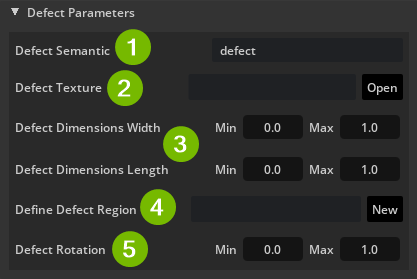
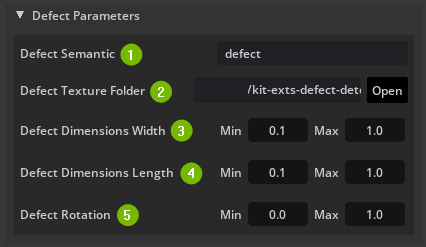
Updated Readme and changed to using Tight Bounding Box

diff --git a/exts/omni.example.defects/omni/example/defects/rep_widgets.py b/exts/omni.example.defects/omni/example/defects/rep_widgets.py
@@ -34,10 +34,6 @@ class DefectParameters:
                                            default_dir=str(SCRATCHES_DIR.as_posix()), 
                                            tooltip="A folder location containing a single or set of textures (.png)",
                                            file_types=[("*.png", "PNG"), ("*", "All Files")])
-        # TODO: Add this back in when new update to Replicator has been made
-        # with ui.HStack(tooltip="Defining the amount of defects to show on the prim"):
-        #     ui.Label("Defect Count")
-        #     ui.IntDrag(model=self.count)
             
         self.dim_w = MinMaxWidget("Defect Dimensions Width",
                                   min_value=0.1,

diff --git a/exts/omni.example.defects/omni/example/defects/replicator_defect.py b/exts/omni.example.defects/omni/example/defects/replicator_defect.py
@@ -114,7 +114,7 @@ def create_defect_layer(defect_params: DefectParameters, object_params: ObjectPa
 
         # Initialize and attach writer
         writer = rep.WriterRegistry.get("BasicWriter")
-        writer.initialize(output_dir=output_dir, rgb=True, semantic_segmentation=use_seg, bounding_box_2d_loose=use_bb)
+        writer.initialize(output_dir=output_dir, rgb=True, semantic_segmentation=use_seg, bounding_box_2d_tight=use_bb)
         # Attach render_product to the writer
         writer.attach([render_product])
 

diff --git a/exts/omni.example.defects/docs/README.md b/exts/omni.example.defects/docs/README.md
@@ -28,9 +28,10 @@ Randomizations are based on Replicator's [Distributions](https://docs.omniverse.
 1. Defect Semantic
     - The semantic label that will be used to represent the defect in the output file produced by Replicator.
     - Default Value: `defect`
-2. Defect Texture
+2. Defect Texture Folder
     - A folder location that holds all the texture(s) to choose from. Textures should be in PNG format.
-    - Default Value: `None`
+    - Default Value: data folder within the Defect Extension
+
     - Defect textures are composed of a Diffuse, Normal, and Roughness texture to represent the defect. Example shown below:
 
     Diffuse Texture |  Normal Texture | Roughness Texture
@@ -38,24 +39,26 @@ Randomizations are based on Replicator's [Distributions](https://docs.omniverse.
     ![](../omni/example/defects/data/scratches/scratch_0_D.png)  |  ![](../omni/example/defects/data/scratches/scratch_0_N.png) | ![](../omni/example/defects/data/scratches/scratch_0_R.png)
 
 
-3. Defect Dimensions (Width and Length)
-    - Replicator will choose random values between the Min and Max defined (cms) for the Width and Length.
-    - Default Value Min: `0`
+3. Defect Dimensions Width
+    - Replicator will choose random values between the Min and Max defined (cms)
+    - Default Value Min: `0.1`
     - Default Value Max: `1`
-4. Define Defect Region
-    - This will create a Plane Prim, this is used as a reference to define a region in which the defect can be in.
-    - Default Value: `None`
+
+4. Defect Dimensions Length
+    - Replicator will choose random values between the Min and Max defined (cms) 
+    - Default Value Min: `0.1`
+    - Default Value Max: `1`
+
 5. Defect Rotation
     - Replicator will choose random values between the Min and Max defined (cms) and will set that rotation.
-    - Default Value Min: `0`
+    - Default Value Min: `0.1`
     - Default Value Max: `1`
 
 A recommended set of values using the CarDefectPanel scene is the following:
  - Defect Semantics: Scratch
- - Defect Texture: [Path to Scratchs in nucleus]
- - Defect Dimensions Width: Min 0.01 Max 0.02
- - Defect Dimensions Length: Min 0.015 Max 0.02
- - Define Defect Region: *None*
+ - Defect Texture: [Path to Scratchs located in Extension]
+ - Defect Dimensions Width: Min 0.1 Max 0.2
+ - Defect Dimensions Length: Min 0.15 Max 0.2
  - Defect Rotation: Min 0 Max 360
 
 ### Replicator Parameters
@@ -64,12 +67,15 @@ A recommended set of values using the CarDefectPanel scene is the following:
 
 1. Output Directory
     - Defines the location in which Replicator will use to output data. By default it will be `DRIVE/Users/USER/omni.replicator_out`
-2. [Render Subframe](https://docs.omniverse.nvidia.com/prod_extensions/prod_extensions/ext_replicator/subframes_examples.html) Count
+2. Annotations
+    - There are two types of annotations you can choose from: Segmentation and/or Bounding Box. You can select both of these. For other annotation options you will need to adjust the code inside the extension.
+3. [Render Subframe](https://docs.omniverse.nvidia.com/prod_extensions/prod_extensions/ext_replicator/subframes_examples.html) Count
     - If rendering in RTX Realtime mode, specifies the number of subframes to render in order to reduce artifacts caused by large changes in the scene.
-3. Create Replicator Layer
+4. Create Replicator Layer
     - Generates the [OmniGraph](https://docs.omniverse.nvidia.com/prod_extensions/prod_extensions/ext_omnigraph.html) or Omni.Replicator graph architecture, if changes are made the user can click this button to reflect changes. This does not run the actual execution or logic.
-4. Preview / Run for X frames
+5. Preview 
     - **Preview** performs a single iteration of randomizations and prevents data from being written to disk.
+6. Run for X frames
     - **Run for**  will run the generation for a specified amount of frames. Each frame will be one data file so 100 frames will produce 100 images/json/npy files.
 
 ![scratch](../data/scratch.gif)

diff --git a/exts/omni.example.defects/docs/CHANGELOG.md b/exts/omni.example.defects/docs/CHANGELOG.md
@@ -4,6 +4,13 @@ All notable changes to this project will be documented in this file.
 
 and this project adheres to [Semantic Versioning](https://semver.org/spec/v2.0.0.html).
 
+## [1.1.1] - 2023-08-23
+
+### Changed
+
+- Changed annotations to use Tight Bounding Box instead of Loose
+- Updated ReadMe
+
 ## [1.1.0] - 2023-08-15
 
 ### Removed
